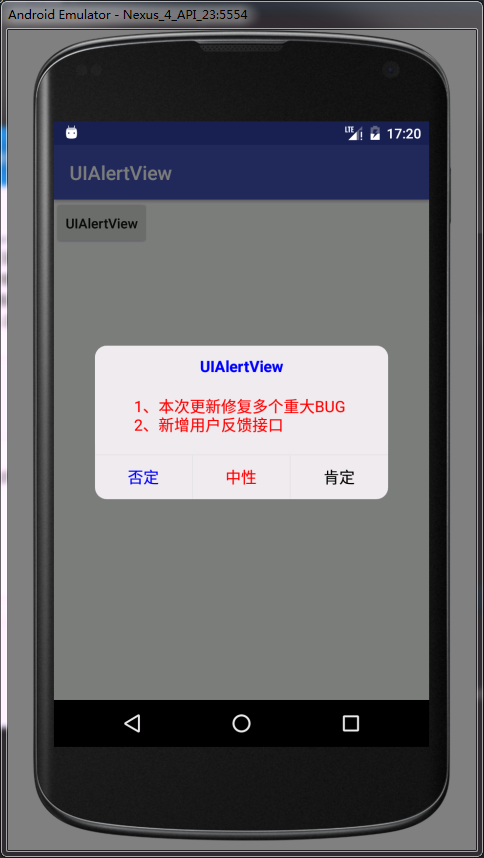
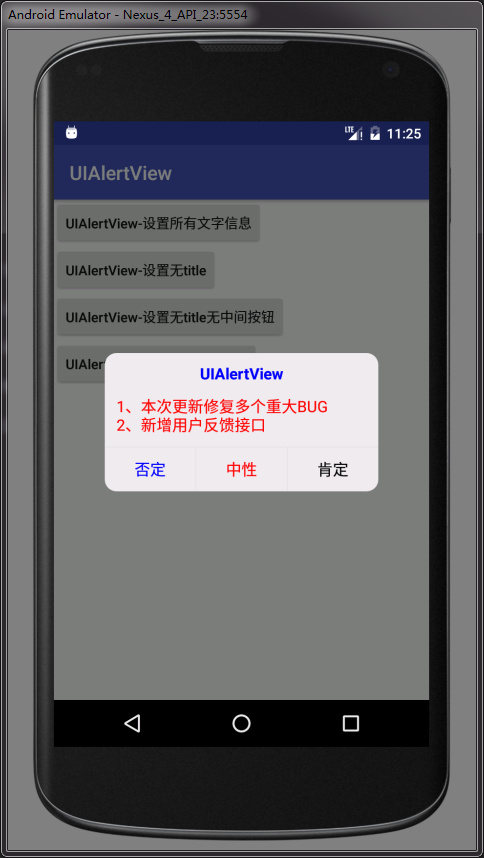
1、增加设置alertView最大宽高方法方便定制不同效果

diff --git a/app/src/main/java/com/aries/alert/MainActivity.java b/app/src/main/java/com/aries/alert/MainActivity.java
@@ -4,6 +4,7 @@ import android.content.DialogInterface;
 import android.graphics.Color;
 import android.os.Bundle;
 import android.support.v7.app.AppCompatActivity;
+import android.view.Gravity;
 import android.view.View;
 import android.widget.Toast;
 
@@ -28,8 +29,7 @@ public class MainActivity extends AppCompatActivity {
                     uiAlertView = new UIAlertView(MainActivity.this).builder();
                 }
                 uiAlertView.setTitle("UIAlertView");
-                uiAlertView.setMessage("1、本次更新修复多个重大BUG\n2、新增用户反馈接口");
-                //.setMessageMinHeight(100)
+                uiAlertView.setMessage("1、本次更新修复多个重大BUG\n2、新增用户反馈接口", Gravity.LEFT);
                 uiAlertView.setNegativeButton("否定", onAlertClick);
                 uiAlertView.setPositiveButton("肯定", onAlertClick);
                 uiAlertView.setDimAmount(0.5f);
@@ -39,6 +39,55 @@ public class MainActivity extends AppCompatActivity {
                 uiAlertView.setNeutralButtonTextColor(Color.RED);
                 uiAlertView.setPositiveButtonTextColor(Color.BLACK);
                 uiAlertView.setNeutralButton("中性", onAlertClick);
+                uiAlertView.show();
+            }
+        });
+
+        findViewById(R.id.btn_alertNoTitle).setOnClickListener(new View.OnClickListener() {
+            @Override
+            public void onClick(View v) {
+                uiAlertView = new UIAlertView(MainActivity.this).builder();
+                uiAlertView.setMinHeight(200);
+                uiAlertView.setMessage("测试无Title AlertView");
+                uiAlertView.setNegativeButton("否定", onAlertClick);
+                uiAlertView.setPositiveButton("肯定", onAlertClick);
+                uiAlertView.setDimAmount(0.5f);
+                uiAlertView.setMessageTextColor(Color.RED);
+                uiAlertView.setTitleTextColor(Color.BLUE);
+                uiAlertView.setNegativeButtonTextColor(Color.BLUE);
+                uiAlertView.setNeutralButtonTextColor(Color.RED);
+                uiAlertView.setPositiveButtonTextColor(Color.BLACK);
+                uiAlertView.show();
+            }
+        });
+
+        findViewById(R.id.btn_alertNoMiddle).setOnClickListener(new View.OnClickListener() {
+            @Override
+            public void onClick(View v) {
+                uiAlertView = new UIAlertView(MainActivity.this).builder();
+                uiAlertView.setMessage("测试无Title 两个按钮 AlertView");
+                uiAlertView.setNegativeButton("否定", onAlertClick);
+                uiAlertView.setPositiveButton("肯定", onAlertClick);
+                uiAlertView.setDimAmount(0.5f);
+                uiAlertView.setTitleTextColor(Color.BLUE);
+                uiAlertView.setNegativeButtonTextColor(Color.BLUE);
+                uiAlertView.setNeutralButtonTextColor(Color.RED);
+                uiAlertView.setPositiveButtonTextColor(Color.BLACK);
+                uiAlertView.show();
+            }
+        });
+
+        findViewById(R.id.btn_alertSingle).setOnClickListener(new View.OnClickListener() {
+            @Override
+            public void onClick(View v) {
+                uiAlertView = new UIAlertView(MainActivity.this).builder();
+                uiAlertView.setMessage("测试无Title 单个按钮按钮 AlertView");
+                uiAlertView.setNegativeButton("否定", onAlertClick);
+                uiAlertView.setDimAmount(0.5f);
+                uiAlertView.setTitleTextColor(Color.BLUE);
+                uiAlertView.setNegativeButtonTextColor(Color.BLUE);
+                uiAlertView.setNeutralButtonTextColor(Color.RED);
+                uiAlertView.setPositiveButtonTextColor(Color.BLACK);
                 uiAlertView.show();
             }
         });

diff --git a/library/src/main/java/com/aries/ui/widget/alert/UIAlertView.java b/library/src/main/java/com/aries/ui/widget/alert/UIAlertView.java
@@ -37,6 +37,7 @@ public class UIAlertView {
     private TextView txt_msg;
     //addView 父容器
     private LinearLayout dialog_Group;
+    private LinearLayout linearLayoutMain;
     private LinearLayout linearLayoutGroup;
     private TextView btn_left;
     private TextView btn_middle;
@@ -54,6 +55,8 @@ public class UIAlertView {
     private int gravity = Gravity.CENTER;
     private Window window;
     private WindowManager.LayoutParams lp;
+
+    private int minHeigh = 0;
 
     public UIAlertView(Context context) {
         this.context = context;
@@ -83,7 +86,7 @@ public class UIAlertView {
         mViewLineRight = view.findViewById(R.id.v_lineRightAlertView);
         mViewLineRight.setVisibility(View.GONE);
         linearLayoutGroup = (LinearLayout) view.findViewById(R.id.lLayout_groupAlertView);
-
+        linearLayoutMain = (LinearLayout) view.findViewById(R.id.lLayout_mainAlertView);
         // 定义Dialog布局和参数
         dialog = new AlertDialog.Builder(context, R.style.AlertViewDialogStyle).create();
         dialog.show();
@@ -98,6 +101,7 @@ public class UIAlertView {
                 dialog_Group.removeAllViews();
             }
         });
+        dialog.dismiss();
         return this;
     }
 
@@ -222,8 +226,15 @@ public class UIAlertView {
                     txt_msg.setMaxWidth((int) context.getResources()
                             .getDimension(R.dimen.alert_max_width));
                 }
+                {
+                    txt_msg.setMaxWidth((int) context.getResources()
+                            .getDimension(R.dimen.alert_max_width_));
+                }
             }
         });
+        int padding = (int) context.getResources().getDimension(R.dimen.alert_dp_padding);
+        txt_msg.setPadding(padding, padding, padding, padding);
+        txt_msg.setGravity(gravity);
         return this;
     }
 
@@ -272,6 +283,24 @@ public class UIAlertView {
      */
     public UIAlertView setMessageMinHeight(final int minHeight) {
         txt_msg.setMinimumHeight(minHeight);
+        return this;
+    }
+
+    /**
+     * @param minHeight
+     * @return
+     */
+    public UIAlertView setMinHeight(final int minHeight) {
+        this.minHeigh = minHeight;
+        linearLayoutMain.setMinimumHeight(minHeight);
+        linearLayoutGroup.setMinimumHeight(minHeight);
+        return this;
+    }
+
+
+    public UIAlertView setMinWidth(final int minWidth) {
+        linearLayoutMain.setMinimumWidth(minWidth);
+        linearLayoutGroup.setMinimumWidth(minWidth);
         return this;
     }
 
@@ -515,10 +544,9 @@ public class UIAlertView {
     private void setLayout() {
         if (showTitle) {
             txt_title.setVisibility(View.VISIBLE);
-        } else {
-            linearLayoutGroup.setGravity(Gravity.CENTER);
-            txt_msg.setGravity(Gravity.CENTER);
         }
+        linearLayoutGroup.setGravity(gravity);
+        txt_msg.setGravity(gravity);
         linearLayoutGroup.setGravity(gravity);
         if (showMsg) {
             txt_msg.setVisibility(View.VISIBLE);
